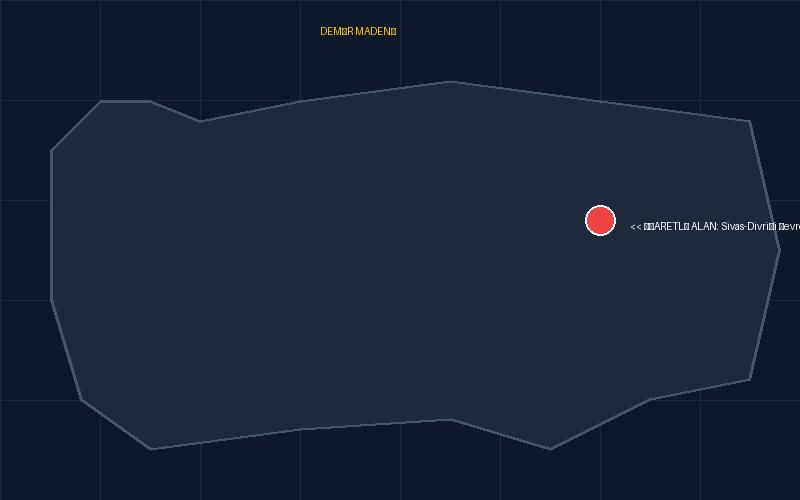
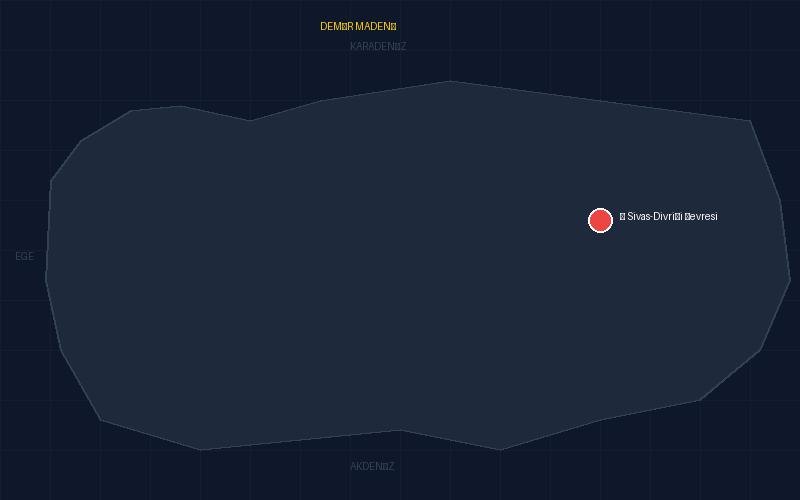
style: harita tasarimlari gelistirildi ve dikey quiz layout'una gecildi

diff --git a/download_assets.py b/download_assets.py
@@ -1,12 +1,6 @@
 import os
-import requests
-import time
 import random
-import urllib3
 from PIL import Image, ImageDraw, ImageFont
-
-# SSL uyarılarını kapatıyoruz
-urllib3.disable_warnings(urllib3.exceptions.InsecureRequestWarning)
 
 def download_kpss_images():
     # 1. Klasörü oluştur
@@ -15,31 +9,6 @@ def download_kpss_images():
         print("✅ 'images' klasörü oluşturuldu.")
 
     # 2. İndirilecek resimlerin listesi
-    images_to_download = {
-        "tr_nufus.jpg": [
-            "https://upload.wikimedia.org/wikipedia/commons/thumb/2/23/Turkey_population_density_map.png/800px-Turkey_population_density_map.png",
-            "https://i.postimg.cc/vH8XmXzX/tr-nufus.jpg"
-        ],
-        "tr_delta.jpg": [
-            "https://upload.wikimedia.org/wikipedia/commons/thumb/d/d1/Adana_in_Turkey.svg/800px-Adana_in_Turkey.svg.png"
-        ],
-        "tr_demir.jpg": [
-            "https://upload.wikimedia.org/wikipedia/commons/thumb/b/b2/Turkey_location_map.svg/800px-Turkey_location_map.svg.png"
-        ],
-        "tr_bor.jpg": [
-            "https://i.postimg.cc/pL9P9P9/tr-bor.jpg"
-        ],
-        "tr_petrol.jpg": [
-            "https://i.postimg.cc/rF8R8R8/tr-petrol.jpg"
-        ]
-    }
-
-    headers = {
-        "User-Agent": "Mozilla/5.0 (Windows NT 10.0; Win64; x64) AppleWebKit/537.36 (KHTML, like Gecko) Chrome/123.0.0.0 Safari/537.36",
-        "Accept": "image/avif,image/webp,image/apng,image/svg+xml,image/*,*/*;q=0.8",
-        "Referer": "https://www.google.com/",
-    }
-
     # Harita oluşturma verileri (Eğer indirme başarısız olursa)
     map_metadata = {
         "tr_nufus.jpg": {"label": "NÜFUS YOĞUNLUĞU", "marker": (150, 130), "info": "İstanbul-Kocaeli Çevresi"},
@@ -53,84 +22,43 @@ def download_kpss_images():
     def create_fallback_map(name, path):
         """İndirme başarısız olursa manuel harita taslağı oluşturur."""
         data = map_metadata.get(name, {"label": "COĞRAFYA HARİTASI", "marker": (400, 300), "info": ""})
-        img = Image.new('RGB', (800, 500), color=(15, 23, 42)) # Koyu Slate Arkaplan
+        img = Image.new('RGB', (800, 500), color=(15, 23, 42)) 
         draw = ImageDraw.Draw(img)
 
         # 1. Koordinat Izgarası (Grid)
-        for x in range(0, 800, 100):
-            draw.line([(x, 0), (x, 500)], fill=(30, 41, 59), width=1)
-        for y in range(0, 500, 100):
-            draw.line([(0, y), (800, y)], fill=(30, 41, 59), width=1)
+        for x in range(0, 800, 50): draw.line([(x, 0), (x, 500)], fill=(22, 30, 46), width=1)
+        for y in range(0, 500, 50): draw.line([(0, y), (800, y)], fill=(22, 30, 46), width=1)
 
         # 2. Basitleştirilmiş Türkiye Formu (Sınırlar)
         turkey_outline = [
-            (50, 150), (100, 100), (150, 100), (200, 120), (300, 100), 
-            (450, 80), (600, 100), (750, 120), (780, 250), (750, 380), 
-            (650, 400), (550, 450), (450, 420), (300, 430), (150, 450), 
-            (80, 400), (50, 300)
+            (50, 180), (80, 140), (130, 110), (180, 105), (250, 120), (320, 100),
+            (450, 80), (600, 100), (750, 120), (780, 200), (790, 280), (760, 350),
+            (700, 400), (600, 420), (500, 450), (400, 430), (300, 440), (200, 450),
+            (100, 420), (60, 350), (45, 280)
         ]
         
         # Kara parçasını doldur ve sınırı çiz
-        draw.polygon(turkey_outline, fill=(30, 41, 59), outline=(71, 85, 105), width=3)
+        draw.polygon(turkey_outline, fill=(30, 41, 59), outline=(51, 65, 85), width=2)
 
         # 3. Başlık
-        draw.text((320, 25), data["label"], fill=(250, 204, 21))
+        draw.text((320, 20), data["label"], fill=(250, 204, 21))
+        
+        # Deniz İsimleri
+        draw.text((350, 40), "KARADENİZ", fill=(51, 65, 85))
+        draw.text((350, 460), "AKDENİZ", fill=(51, 65, 85))
+        draw.text((15, 250), "EGE", fill=(51, 65, 85))
 
         # İşaretçi çiz (Kırmızı Daire)
         mx, my = data["marker"]
-        draw.ellipse([mx-15, my-15, mx+15, my+15], fill=(239, 68, 68), outline=(255, 255, 255), width=2)
-        draw.text((mx+30, my), f"<< İŞARETLİ ALAN: {data['info']}", fill=(255, 255, 255))
+        draw.ellipse([mx-12, my-12, mx+12, my+12], fill=(239, 68, 68), outline=(255, 255, 255), width=2)
+        draw.text((mx+20, my-10), f"📍 {data['info']}", fill=(255, 255, 255))
         img.save(path)
-        print(f"🎨 {name} için geliştirilmiş harita taslağı OLUŞTURULDU.")
+        print(f"🎨 {name} üretildi.")
 
-    print("🚀 İşlem başlıyor. Önce indirme denenecek, olmazsa haritalar üretilecek...")
-    success_count = 0
-
-    for filename, urls in images_to_download.items():
-        filepath = os.path.join("images", filename)
-        
-        if os.path.exists(filepath):
-            print(f"⏩ {filename} zaten mevcut, geçiliyor.")
-            success_count += 1
-            continue
-
-        downloaded = False
-        for url_index, url in enumerate(urls):
-            if downloaded: break
-            
-            max_retries = 2
-            for attempt in range(max_retries):
-                try:
-                    source_label = f"Kaynak {url_index + 1}"
-                    print(f"📥 {filename} indiriliyor ({source_label}, Deneme {attempt + 1})...")
-                    response = requests.get(url, headers=headers, timeout=20, verify=False)
-                    
-                    if response.status_code == 200:
-                        with open(filepath, "wb") as f:
-                            f.write(response.content)
-                        print(f"✅ {filename} başarıyla indirildi ({source_label}).")
-                        success_count += 1
-                        downloaded = True
-                        time.sleep(random.uniform(2, 4)) # Rastgele bekleme (İnsansı hareket)
-                        break
-                    elif response.status_code == 429:
-                        wait_time = (attempt + 1) * 15
-                        print(f"⚠ HTTP 429: Hız sınırı. {wait_time} saniye bekleniyor...")
-                        time.sleep(wait_time)
-                    else:
-                        print(f"❌ {filename} indirilemedi (HTTP {response.status_code} - {source_label})")
-                        break # Bu URL çalışmıyor, bir sonraki URL'e geçmek için döngüyü kır
-                except Exception as e:
-                    print(f"❌ Hata ({filename} - {source_label}): {e}")
-                    time.sleep(2)
-        
-        if not downloaded:
-            create_fallback_map(filename, filepath)
-            success_count += 1
-
-    print(f"\n✨ HARİTA OPERASYONU TAMAMLANDI!")
-    print(f"✅ Hazır Durumdaki Harita Sayısı: {success_count}")
-    print("Artık botu yerel görsellerle uçurabilirsin! 🚀")
+    print("🚀 Harita üretim süreci başlıyor...")
+    for filename in map_metadata.keys():
+        create_fallback_map(filename, os.path.join("images", filename))
+    print("\n✨ TÜM HARİTALAR HAZIR! 🚀")
 
 if __name__ == "__main__":
     download_kpss_images()

diff --git a/quiz.py b/quiz.py
@@ -81,7 +81,7 @@ safe_generate_content = None
 
 def create_quiz_image(question, options, category, level, lives, question_img_url=None):
     width = 800
-    height = 600
+    height = 850
     
     cat_lower = category.lower()
     if "tarih" in cat_lower:
@@ -117,12 +117,13 @@ def create_quiz_image(question, options, category, level, lives, question_img_ur
     stars = "⭐" * level
     draw.text((40, 25), f"🧠 {category.upper()}  |  {stars}  |  ❤ {lives}", font=header_font, fill=header_text_color)
     
-    # Soru Kartı
-    draw.rounded_rectangle([(40, 100), (760, 320)], radius=20, fill=card_color, outline=(51, 65, 85), width=2)
-    draw.rounded_rectangle([(60, 110), (160, 140)], radius=10, fill=(56, 189, 248))
-    draw.text((75, 115), "SORU", font=tag_font, fill=(255, 255, 255))
+    # Soru Kartı (Haritanın altına taşındı)
+    soru_y_start = 420
+    draw.rounded_rectangle([(40, soru_y_start), (760, soru_y_start + 120)], radius=20, fill=card_color, outline=(51, 65, 85), width=2)
+    draw.rounded_rectangle([(60, soru_y_start + 10), (160, soru_y_start + 40)], radius=10, fill=(56, 189, 248))
+    draw.text((75, soru_y_start + 15), "SORU", font=tag_font, fill=(255, 255, 255))
     
-    y_text = 160
+    y_text = soru_y_start + 50
     # --- Resim Ekleme Bölümü ---
     if question_img_url:
         try:
@@ -149,18 +150,17 @@ def create_quiz_image(question, options, category, level, lives, question_img_ur
                     q_img = Image.open(img_path).convert("RGBA")
 
             if q_img:
-                # Resmi boyutlandır ve yapıştır
-                max_w, max_h = 300, 180
+                # Resmi boyutlandır ve ÜST MERKEZE yapıştır
+                max_w, max_h = 720, 300
                 resample_filter = getattr(Image, 'Resampling', Image).LANCZOS
                 q_img.thumbnail((max_w, max_h), resample_filter)
-                img.paste(q_img, (760 - q_img.size[0] - 20, 120), q_img if q_img.mode == 'RGBA' else None)
-                text_width = 30
+                img.paste(q_img, (int((width - q_img.size[0]) / 2), 100), q_img if q_img.mode == 'RGBA' else None)
             else:
                 # Resim hiçbir şekilde gelmediyse hata kutusu çiz
-                draw.rounded_rectangle([(450, 120), (740, 280)], radius=15, fill=(50, 50, 50), outline=(231, 76, 60), width=2)
-                draw.text((480, 180), "GÖRSEL\nYÜKLENEMEDİ\n(HTTP 429)", font=tag_font, fill=(231, 76, 60))
-                text_width = 35
+                draw.rounded_rectangle([(300, 150), (500, 300)], radius=15, fill=(50, 50, 50), outline=(231, 76, 60), width=2)
+                draw.text((320, 210), "GÖRSEL\nYOK", font=tag_font, fill=(231, 76, 60))
 
+            text_width = 40
         except Exception as e:
             print(f"❌ Kritik Görsel Hatası: {e}")
             text_width = 40
@@ -172,13 +172,13 @@ def create_quiz_image(question, options, category, level, lives, question_img_ur
     lines = wrapper.wrap(text=question)
     for line in lines:
         draw.text((60, y_text), line, font=question_font, fill=(255, 255, 255))
-        y_text += 45
+        y_text += 40
 
-    y_opt = 345
+    y_opt = 560
     for opt in options:
         draw.rounded_rectangle([(40, y_opt), (760, y_opt + 55)], radius=15, fill=(51, 65, 85))
         draw.text((70, y_opt + 12), opt, font=option_font, fill=(241, 245, 249))
-        y_opt += 70
+        y_opt += 65
 
     img = add_watermark(img)
     bio = io.BytesIO()
